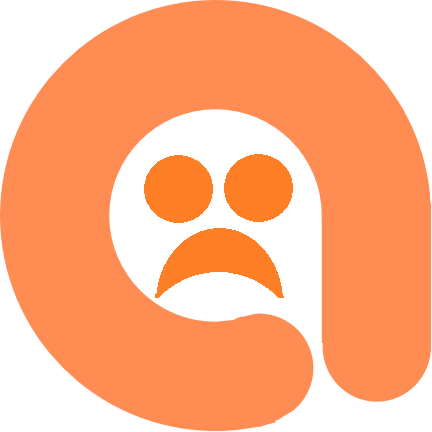
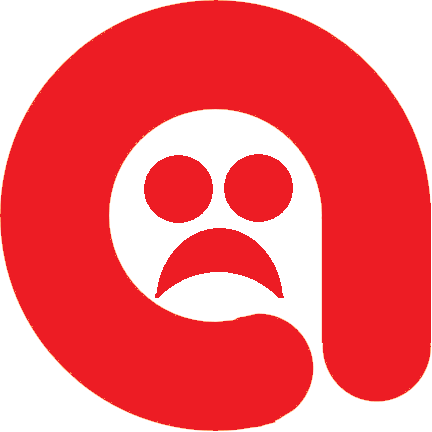
commit the following: default country = geo location
commit the following: default country = geo location

diff --git a/src/components/uiLegos/LocationFilter.js b/src/components/uiLegos/LocationFilter.js
@@ -5,35 +5,21 @@ import { countries } from "../../dataAccess/GeographicalData";
 
 const LocationFilter = () => {
   const [countryList, setCountryList] = useState([])
-  const [selectedCountry, setSelectedCountry] = useState({value: '', label: ''})
+  const [selectedCountry, setSelectedCountry] = useState({value: 'INTL', label: 'International'})
+  const locateCountry = async () => {
+    const resp = await fetch("https://ipinfo.io/json?token=516ec07e26e604")
+    const data = await resp.json()
+    let localCountry = countries.find(country => country.country.id===data.country)
+    setSelectedCountry({value: localCountry.country.id, label: localCountry.country.countryName})
+  }
   useEffect(() => {
     let cntryOptns = []
     countries.map((country) => {
       return (cntryOptns.push({value: country.country.id, label: country.country.countryName}))
     })
     setCountryList(cntryOptns)
-    // if (navigator.geolocation) {
-    //     navigator.geolocation.getCurrentPosition(function(position) {
-    //         $.getJSON('http://ws.geonames.org/countryCode', {
-    //             lat: position.coords.latitude,
-    //             lng: position.coords.longitude,
-    //             type: 'JSON'
-    //         }, function(result) {
-    //             alert(result.countryName);
-    //         });
-    //     })
-    // }
-    function success(pos) {
-      const crd = pos.coords;
-      console.log(`Latitude : ${crd.latitude}`);
-      console.log(`Longitude: ${crd.longitude}`);
-    }
-    navigator.geolocation.getCurrentPosition(success);
-    console.log('Selected Country: ', selectedCountry)
-    if (selectedCountry.value==='') {
-      setSelectedCountry({value: 'INTL', label: 'International'})
-    }
-  }, [selectedCountry])
+    locateCountry()
+  }, [])
   const handleChange = e => {
     setSelectedCountry(e)
   }
@@ -42,9 +28,11 @@ const LocationFilter = () => {
       <div className="modalSection">
         <label>Country: </label>
         { selectedCountry.value==='INTL' ? 
-          <i className="fa-solid fa-globe"></i> : 
+          <i className="fa-solid fa-globe theme-color"></i> : 
           <Flag country={selectedCountry.value} />}
-        <Select options={countryList} onChange={handleChange} />
+        <Select value={selectedCountry} options={countryList} onChange={handleChange} 
+          getOptionValue={(option) => option.value} getOptionLabel={(option) => option.label}
+        />
       </div>
     </>
   );

diff --git a/src/components/layouts/Logo.js b/src/components/layouts/Logo.js
@@ -5,7 +5,7 @@ const Logo = () => {
     <div className="logo-box rel page-boundary">
       <NavLink to="/">
         <div className="row-display">
-          <img src={ process.env.PUBLIC_URL + '/resources/anodiamLogoXS.png' } alt='A' className="bl" />
+          <img src={ process.env.PUBLIC_URL + '/resources/anodiamLogo.png' } alt='A' className="bl" />
           <div className="bottom-align">
             <span className="logo-name silent-link">nodiam</span>
           </div>

diff --git a/src/App.css b/src/App.css
@@ -2,6 +2,8 @@
 :root {
   --ctheme: #ff8c52;
   --ctheme-lite: #ffac52;
+  /* --ctheme: purple;
+  --ctheme-lite: pink; */
   --c333: #333;
   --c777: #777;
   --c888: #888;
@@ -215,6 +217,11 @@ h6 {
 }
 .bl {
   display: block;
+  height: 70px;
+  background-color: var(--ctheme);
+}
+.theme-color {
+  color: var(--ctheme);
 }
 
 /* Navbar */
